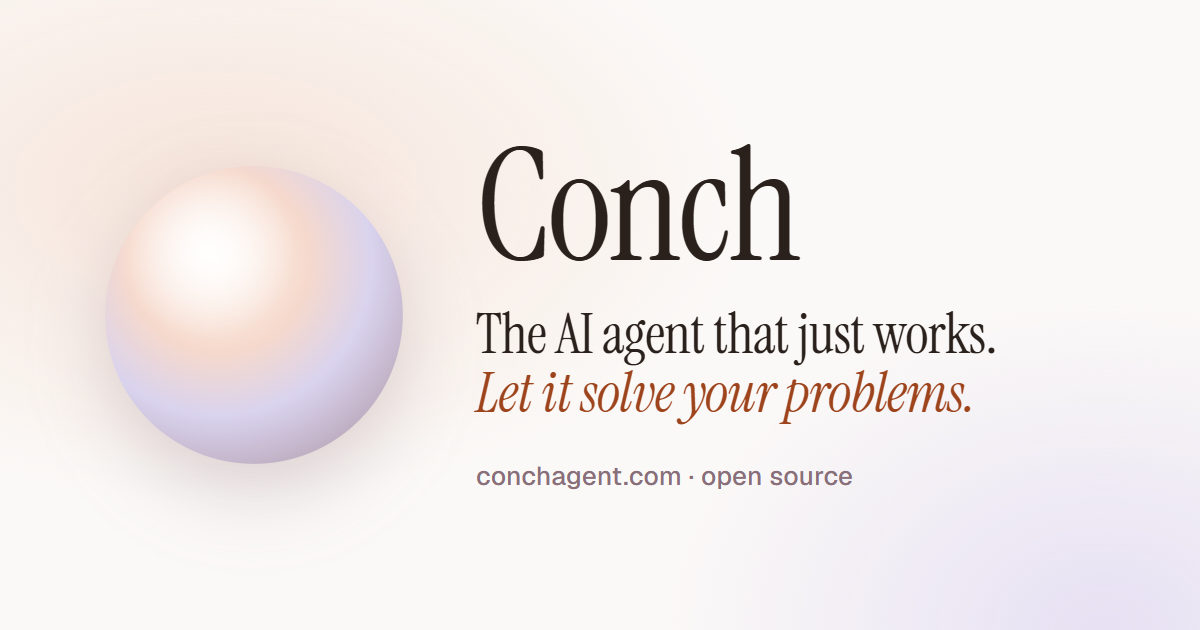
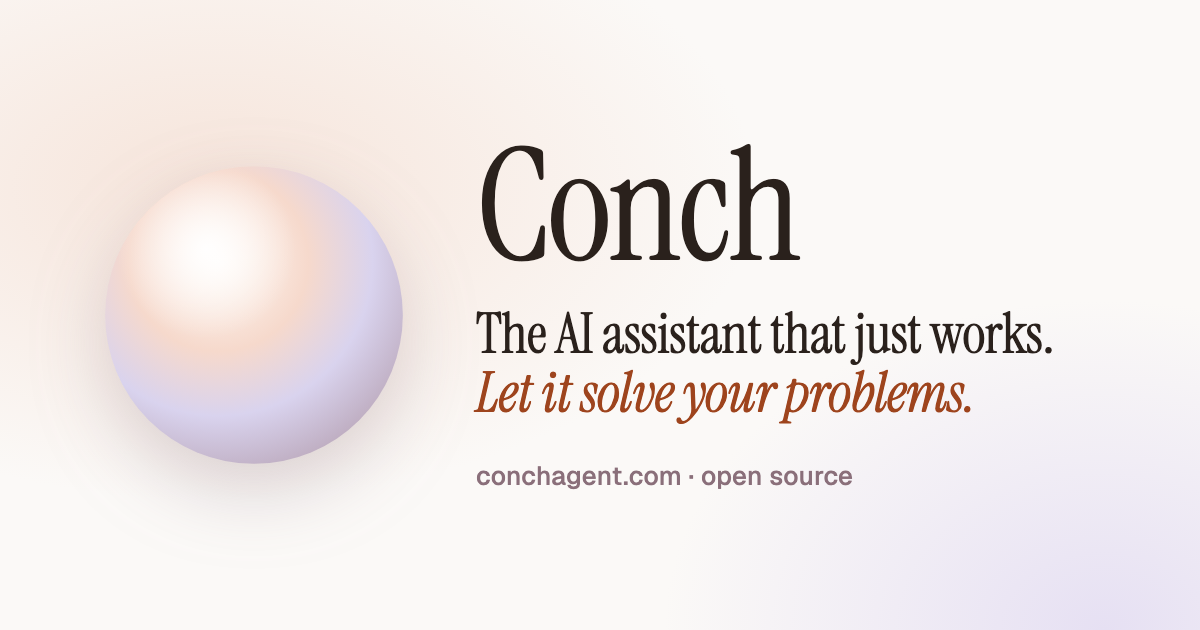
docs: Conch is an AI assistant, not an AI agent, everywhere it introduces itself
The front page, its title, description and link picture, the README, the
web app's manifest, the terminal's greeting and package.json now say
"The AI assistant that just works". Conch's own named agents (ADR 0101)
keep their name.

diff --git a/apps/docs/src/site/head.ts b/apps/docs/src/site/head.ts
@@ -30,7 +30,7 @@ export const SOCIAL_IMAGE = {
   path: '/social.png',
   width: 1200,
   height: 630,
-  alt: 'Conch: the AI agent that just works. Let it solve your problems.',
+  alt: 'Conch: the AI assistant that just works. Let it solve your problems.',
 } as const;
 
 /** A page's full address. */
@@ -56,10 +56,10 @@ const SITE = {
 } as const;
 
 const DESCRIPTION =
-  'Conch is an open-source AI agent that sets itself up and fixes what breaks. Use the AI subscriptions and API keys you already have, on your own computer.';
+  'Conch is an open-source AI assistant that sets itself up and fixes what breaks. Use the AI subscriptions and API keys you already have, on your own computer.';
 
 export const LANDING_HEAD: Head = {
-  title: 'Conch · the AI agent that just works',
+  title: 'Conch · the AI assistant that just works',
   description: DESCRIPTION,
   path: '/',
   data: [

diff --git a/apps/docs/index.html b/apps/docs/index.html
@@ -22,10 +22,10 @@
     </script>
     <!-- Each page's own title, description, address and preview: written here by scripts/prerender.mjs. -->
     <!--head-->
-    <title>Conch · the AI agent that just works</title>
+    <title>Conch · the AI assistant that just works</title>
     <meta
       name="description"
-      content="Conch is an open-source AI agent that sets itself up and fixes what breaks. Use the AI subscriptions and API keys you already have, on your own computer."
+      content="Conch is an open-source AI assistant that sets itself up and fixes what breaks. Use the AI subscriptions and API keys you already have, on your own computer."
     />
     <!--/head-->
     <meta name="author" content="George Kal" />

diff --git a/apps/docs/src/landing/Landing.tsx b/apps/docs/src/landing/Landing.tsx
@@ -137,7 +137,7 @@ export function Landing() {
           }
           title={
             <>
-              The AI agent that just works.
+              The AI assistant that just works.
               <br />
               <em>Let it solve your problems.</em>
             </>
@@ -562,8 +562,8 @@ export function Landing() {
           }
         >
           <p>
-            I built Conch for myself. I wanted an agent that fixes my problems, not one I have to
-            keep fixing.
+            I built Conch for myself. I wanted an assistant that fixes my problems, not one I have
+            to keep fixing.
           </p>
           <p>It’s open source now, so it can be yours too.</p>
         </Statement>

diff --git a/apps/docs/src/landing/Landing.test.tsx b/apps/docs/src/landing/Landing.test.tsx
@@ -27,7 +27,7 @@ describe('the front page', () => {
   it('says what Conch is, the button that downloads it, and the one line that installs it', async () => {
     const { container } = open();
     expect(screen.getByRole('heading', { level: 1 })).toHaveTextContent(
-      /The AI agent that just works\.\s*Let it solve your problems\./,
+      /The AI assistant that just works\.\s*Let it solve your problems\./,
     );
     expect(screen.getAllByRole('button', { name: 'Copy command' }).length).toBeGreaterThan(0);
     // One download for every system, and the docs beside it.

diff --git a/apps/docs/src/prerender.test.tsx b/apps/docs/src/prerender.test.tsx
@@ -13,7 +13,7 @@ describe('pages drawn ahead of time', () => {
 
   it('the front page and the documentation home are pages too', async () => {
     expect(PATHS.slice(0, 2)).toEqual(['/', '/docs']);
-    expect(await render('/')).toContain('The AI agent that just works.');
+    expect(await render('/')).toContain('The AI assistant that just works.');
     expect(headFor('/docs').title).toBe('Conch documentation');
   });
 

diff --git a/apps/server/src/cli.ts b/apps/server/src/cli.ts
@@ -1069,7 +1069,7 @@ async function help() {
   const topic = process.argv[3];
   if (process.argv[2] === 'help' && topic && helpFor(topic)) return;
   await banner(ui, {
-    line: 'The AI agent that just works.',
+    line: 'The AI assistant that just works.',
     sub: `${SERVER_LABEL} · ${conch('help <command>')} for the details`,
   });
   const width = Math.max(...commandList.map((c) => c.usage.length)) + 2;

diff --git a/README.md b/README.md
@@ -8,7 +8,7 @@
 <h1 align="center">Conch</h1>
 
 <p align="center">
-  <b>The AI agent that just works. Let it solve your problems.</b>
+  <b>The AI assistant that just works. Let it solve your problems.</b>
 </p>
 
 <p align="center">
